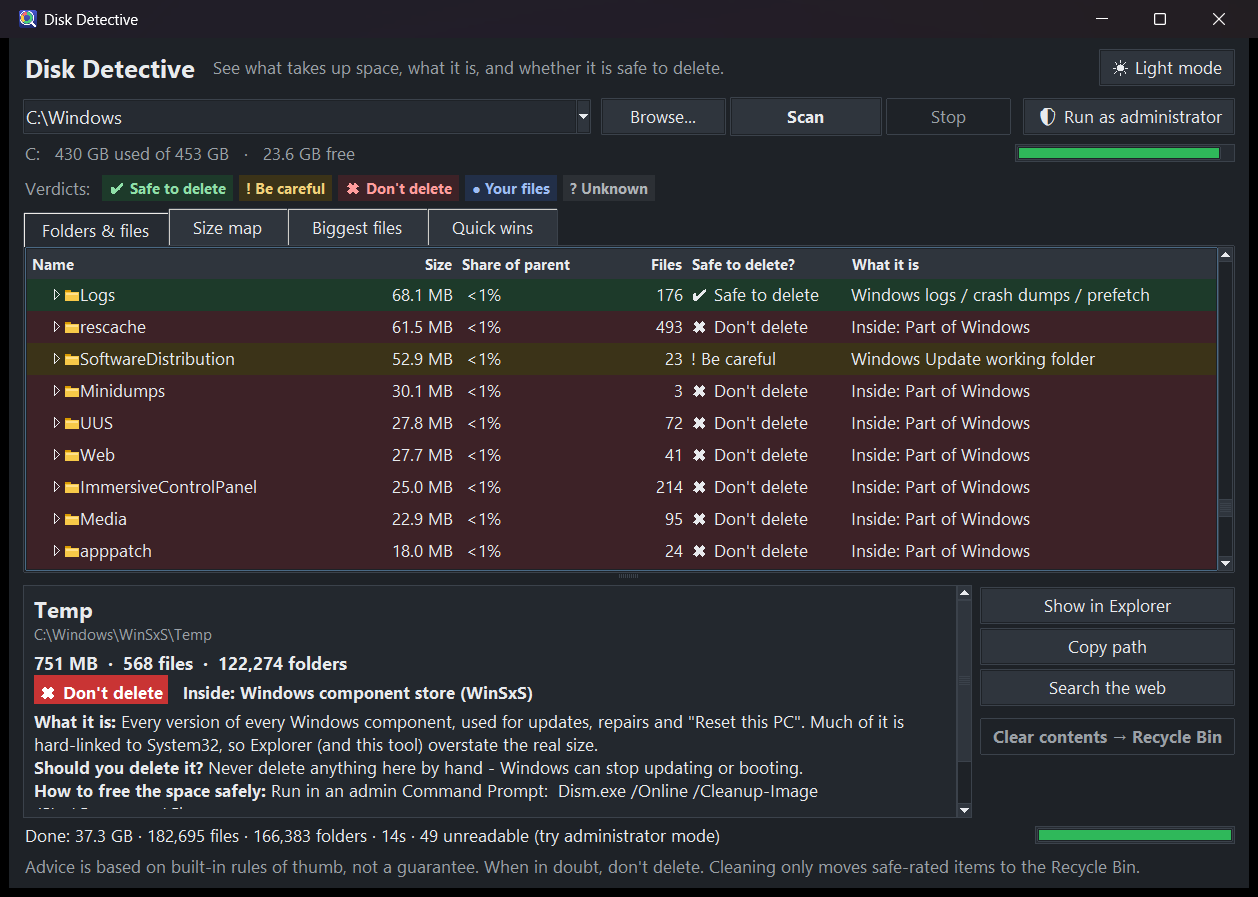
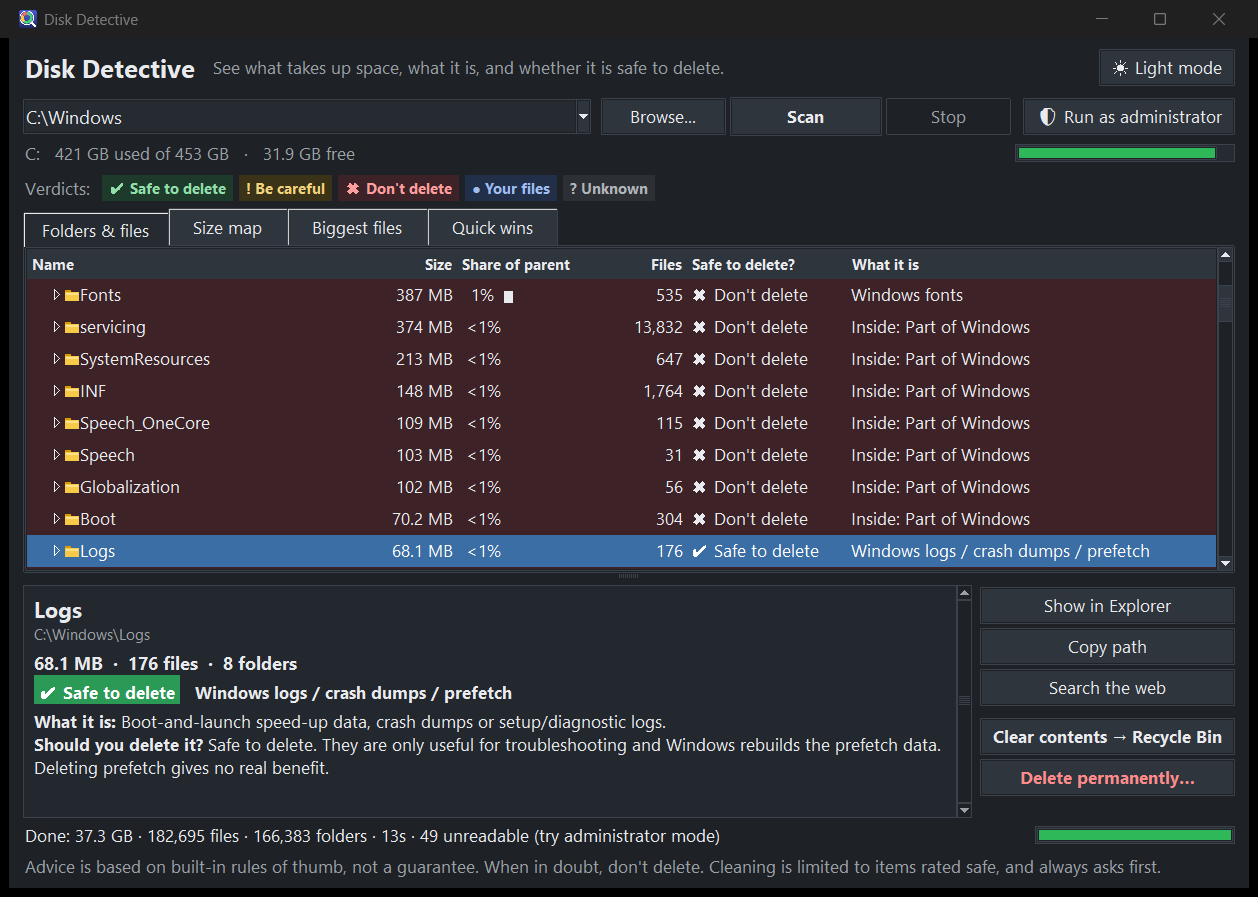
Add permanent Delete button next to the Recycle Bin one
- cleaner.delete_permanently: removes files / folder contents for good, never follows
  junctions or symlinks (removes the link only), clears read-only flags, reports files in use
- both actions share every safeguard: safe-rated items only, verdict re-checked at click time,
  credential guard, confirmation dialog that defaults to No (stronger wording for permanent)
- red Delete permanently button in the detail panel and in Quick wins (multi-select)
- tests: junction safety, read-only and in-use files; README and screenshot updated

diff --git a/diskdetective.py b/diskdetective.py
@@ -1,6 +1,7 @@
 """Disk Detective - see what is using your disk space, what it is, and whether it is safe to delete.
 
-It only ever *moves* things to the Recycle Bin, and only items rated "safe to delete", and only when you confirm.
+It only ever removes items rated "safe to delete" (to the Recycle Bin, or permanently), never anything holding saved
+logins/cookies/keys, and only after you confirm.
 """
 import ctypes
 import json
@@ -220,6 +221,8 @@ class DiskDetective:
         st.configure('Treeview.Heading', font=('Segoe UI', 9, 'bold'))
         st.configure('Accent.TButton', font=('Segoe UI', 10, 'bold'), padding=(18, 5))
         st.configure('Clean.TButton', font=('Segoe UI', 10, 'bold'))
+        st.configure('Danger.TButton', font=('Segoe UI', 10, 'bold'), foreground='#ff8a8a' if name == 'dark' else '#b3261e')
+        st.map('Danger.TButton', foreground=[('disabled', t['muted'])])
         st.configure('Title.TLabel', font=('Segoe UI', 15, 'bold'))
         st.configure('Muted.TLabel', foreground=t['muted'])
         st.configure('Bold.TLabel', font=('Segoe UI', 10, 'bold'))
@@ -319,7 +322,7 @@ class DiskDetective:
 
         # footer widgets are packed first so the expanding pane below can never squeeze them out
         ttk.Label(root, text='Advice is based on built-in rules of thumb, not a guarantee. When in doubt, don\'t delete. '
-                  'Cleaning only moves safe-rated items to the Recycle Bin.', style='Muted.TLabel',
+                  'Cleaning is limited to items rated safe, and always asks first.', style='Muted.TLabel',
                   padding=(14, 0, 14, 8)).pack(side='bottom', fill='x')
         bar = ttk.Frame(root, padding=(14, 4, 14, 4))
         bar.pack(side='bottom', fill='x')
@@ -373,7 +376,10 @@ class DiskDetective:
         self.btn_wins_clean = ttk.Button(wtop, text='Clean selected \u2192 Recycle Bin', style='Clean.TButton',
                                          command=self.clean_selected, state='disabled')
         self.btn_wins_clean.pack(side='right')
-        ttk.Button(wtop, text='Select all', command=self._wins_select_all).pack(side='right', padx=6)
+        self.btn_wins_delete = ttk.Button(wtop, text='Delete permanently…', style='Danger.TButton',
+                                          command=self.delete_selected, state='disabled')
+        self.btn_wins_delete.pack(side='right', padx=6)
+        ttk.Button(wtop, text='Select all', command=self._wins_select_all).pack(side='right')
         self.wins = self._make_tree(tab3, 'headings', [
             ('name', 'Folder', 420, 'w'), ('size', 'Size', 90, 'e'), ('what', 'What it is', 220, 'w'),
             ('how', 'How to clean it', 380, 'w')], stretch='how', multi=True)
@@ -386,9 +392,12 @@ class DiskDetective:
         self.btn_copy = ttk.Button(btns, text='Copy path', command=lambda: self.copy_path(self.current), state='disabled')
         self.btn_web = ttk.Button(btns, text='Search the web', command=lambda: self.search_web(self.current), state='disabled')
         self.btn_clean = ttk.Button(btns, text='Move to Recycle Bin', style='Clean.TButton', command=self.clean_selected, state='disabled')
+        self.btn_delete = ttk.Button(btns, text='Delete permanently…', style='Danger.TButton', command=self.delete_selected,
+                                     state='disabled')
         for b in (self.btn_open, self.btn_copy, self.btn_web):
             b.pack(fill='x', pady=2)
         self.btn_clean.pack(fill='x', pady=(10, 2))
+        self.btn_delete.pack(fill='x', pady=2)
         dscroll = ttk.Scrollbar(dframe, orient='vertical')
         dscroll.pack(side='right', fill='y')
         self.detail = tk.Text(dframe, height=10, wrap='word', relief='flat', borderwidth=0, padx=10, pady=8,
@@ -716,7 +725,10 @@ class DiskDetective:
         metas = self.selection
         can = bool(metas) and all(self._cleanable(m) for m in metas)
         self.btn_clean.config(state='normal' if can else 'disabled')
-        self.btn_wins_clean.config(state='normal' if can and self.wins.selection() else 'disabled')
+        self.btn_delete.config(state='normal' if can else 'disabled')
+        in_wins = 'normal' if can and self.wins.selection() else 'disabled'
+        self.btn_wins_clean.config(state=in_wins)
+        self.btn_wins_delete.config(state=in_wins)
         if len(metas) > 1:
             text = f'Clean {len(metas)} items \u2192 Recycle Bin'
         elif metas and not metas[0].is_dir:
@@ -748,7 +760,8 @@ class DiskDetective:
         levels = {m.info.level for m in metas}
         if levels == {K.SAFE}:
             t.insert('end', 'All of them are rated safe to delete. ', 'gap')
-            t.insert('end', 'Press "Clean" to move their contents to the Recycle Bin (you will be asked to confirm first).')
+            t.insert('end', 'Move their contents to the Recycle Bin (recoverable), or delete them permanently - '
+                     'you will be asked to confirm first.')
         else:
             t.insert('end', 'The selection mixes different kinds of items, so cleaning is disabled. Select only items rated "Safe to delete".', 'gap')
         t.configure(state='disabled')
@@ -825,7 +838,11 @@ class DiskDetective:
             webbrowser.open('https://www.google.com/search?q=' + urllib.parse.quote_plus(query))
 
     # --------------------------------------------------------------- cleaning
-    def clean_selected(self):
+    def delete_selected(self):
+        self.clean_selected(permanent=True)
+
+    def clean_selected(self, permanent=False):
+        """Move the selected safe-rated items to the Recycle Bin - or, with permanent=True, delete them for good."""
         if self.busy or not self.scan_done:
             return
         # work from the tab the user is looking at, so "selection" means what they can see highlighted
@@ -860,29 +877,40 @@ class DiskDetective:
         for m in checked:
             targets += cleaner.targets_for(m.path, m.is_dir)
         if not targets:
-            messagebox.showinfo(APP, 'Nothing to move - the selected folders are already empty.')
+            messagebox.showinfo(APP, 'Nothing to remove - the selected folders are already empty.')
             return
         total = sum(m.size for m in checked)
         lines = [f'  \u2022 {shorten(m.path, 62)}  ({fmt_size(m.size)})' for m in sorted(checked, key=lambda m: -m.size)[:8]]
         if len(checked) > 8:
             lines.append(f'  \u2026 and {len(checked) - 8:,} more')
-        msg = (f'Move to the Recycle Bin?\n\n' + '\n'.join(lines) + f'\n\nTotal: {fmt_size(total)} in {len(checked):,} item(s).\n\n'
-               'For folders, only what is inside is moved; the folder itself stays. '
-               'Everything can be restored from the Recycle Bin, and the disk space is only released when you empty it.')
+        summary = '\n'.join(lines) + f'\n\nTotal: {fmt_size(total)} in {len(checked):,} item(s).\n\n'
+        if permanent:
+            msg = ('PERMANENTLY delete?\n\n' + summary +
+                   'This CANNOT be undone: nothing goes to the Recycle Bin. For folders, everything inside is deleted '
+                   'and the folder itself stays. The space is freed immediately.\n\nDelete them for good?')
+        else:
+            msg = ('Move to the Recycle Bin?\n\n' + summary +
+                   'For folders, only what is inside is moved; the folder itself stays. '
+                   'Everything can be restored from the Recycle Bin, and the disk space is only released when you empty it.')
         if not messagebox.askyesno(APP, msg, icon='warning', default='no'):
             return
+        verb = 'Deleting' if permanent else 'Moving to the Recycle Bin'
         self.busy = True
         self._set_buttons()
         self.scan_btn.config(state='disabled')
         before = self.scanner.root_node.size
-        self.status.set('Moving to the Recycle Bin\u2026')
+        self.status.set(verb + '\u2026')
         self.progress.config(mode='indeterminate')
         self.progress.start(15)
-        job = {'done': False, 'left': 0, 'aborted': False, 'error': None, 'stage': 'Moving to the Recycle Bin\u2026'}
+        job = {'done': False, 'left': 0, 'aborted': False, 'error': None, 'stage': verb + '\u2026', 'permanent': permanent,
+               'failed': []}
 
         def work():                          # runs off the UI thread: never touch Tk widgets or variables in here
             try:
-                _ok, job['aborted'] = cleaner.recycle_in_chunks(targets)
+                if permanent:
+                    _removed, job['failed'] = cleaner.delete_permanently(targets)
+                else:
+                    _ok, job['aborted'] = cleaner.recycle_in_chunks(targets)
                 job['left'] = sum(1 for t in targets if os.path.lexists(t))
                 job['stage'] = 'Updating the numbers\u2026'
                 touched = {m.path if m.is_dir else os.path.dirname(m.path) for m in checked}
@@ -913,9 +941,20 @@ class DiskDetective:
         moved = n_targets - job['left']
         note = ''
         if job['left']:
-            note = f' {job["left"]:,} item(s) could not be moved (in use or access denied - close the program, or try administrator mode).'
+            note = (f' {job["left"]:,} item(s) could not be {"deleted" if job["permanent"] else "moved"} '
+                    '(in use or access denied - close the program, or try administrator mode).')
+            reasons = sorted({(getattr(e, 'strerror', None) or str(e)) for _p, e in job['failed']})[:2]
+            if reasons:
+                note += ' Windows said: ' + '; '.join(reasons) + '.'
         if job['aborted']:
             note += ' The operation was cancelled.'
+        if job['permanent']:
+            self.status.set(f'Deleted {moved:,} item(s) \u00b7 {fmt_size(freed)} freed.' + note)
+            if job['error'] is not None:
+                messagebox.showerror(APP, f'Something went wrong while deleting:\n\n{job["error"]}')
+            elif job['left']:
+                messagebox.showwarning(APP, f'Deleted {moved:,} item(s) ({fmt_size(freed)} freed).\n\n{note.strip()}')
+            return
         self.status.set(f'Moved {moved:,} item(s) to the Recycle Bin \u00b7 {fmt_size(freed)} less here.' + note)
         if job['error'] is not None:
             messagebox.showerror(APP, f'Something went wrong while cleaning:\n\n{job["error"]}')

diff --git a/test_knowledge.py b/test_knowledge.py
@@ -196,6 +196,47 @@ for name in ('data_0', 'index', 'f_000001', 'main.js', 'package.json', 'cookies.
     if cleaner.is_sensitive_name(name):
         fails.append(f'is_sensitive_name wrongly flagged {name}')
 
+# permanent delete: removes everything inside, but never follows a junction out of the folder
+import stat
+import subprocess
+with tempfile.TemporaryDirectory() as tmp:
+    victim = os.path.join(tmp, 'victim')                  # the folder whose *contents* get deleted
+    outside = os.path.join(tmp, 'outside')                # must survive: a junction inside victim points here
+    for rel in ('victim/a.bin', 'victim/sub/b.bin', 'victim/sub/deeper/c.bin', 'outside/precious.txt'):
+        os.makedirs(os.path.dirname(os.path.join(tmp, rel)), exist_ok=True)
+        with open(os.path.join(tmp, rel), 'wb') as fh:
+            fh.write(b'x' * 100)
+    readonly = os.path.join(victim, 'readonly.bin')
+    with open(readonly, 'wb') as fh:
+        fh.write(b'x')
+    os.chmod(readonly, stat.S_IREAD)
+    junction = os.path.join(victim, 'link_to_outside')
+    made = subprocess.run(['cmd', '/c', 'mklink', '/J', junction, outside], capture_output=True).returncode == 0
+    held = os.path.join(victim, 'in_use.bin')
+    with open(held, 'wb') as fh:
+        fh.write(b'x')
+    keep_open = open(held, 'rb')                          # an open handle blocks deletion, like a running program would
+    targets = cleaner.targets_for(victim, True)
+    removed, failed = cleaner.delete_permanently(targets)
+    keep_open.close()
+    left = sorted(os.listdir(victim))
+    if left != ['in_use.bin']:
+        fails.append(f'delete_permanently left the wrong things behind: {left}')
+    if [os.path.basename(p) for p, _ in failed] != ['in_use.bin']:
+        fails.append(f'the in-use file should be reported as failed, got {[os.path.basename(p) for p, _ in failed]}')
+    if not os.path.isfile(os.path.join(outside, 'precious.txt')):
+        fails.append('DANGER: delete_permanently followed a junction and deleted files outside the folder')
+    if not made:
+        fails.append('could not create a test junction (mklink /J failed), junction safety was not tested')
+    if removed < 7:
+        fails.append(f'delete_permanently reported too few removed items: {removed}')
+    removed2, failed2 = cleaner.delete_permanently(cleaner.targets_for(victim, True))      # handle closed now
+    if failed2 or os.listdir(victim):
+        fails.append(f'second pass should remove the last file: {failed2} {os.listdir(victim)}')
+    gone, missing = cleaner.delete_permanently([os.path.join(tmp, 'does-not-exist')])
+    if gone != 0 or len(missing) != 1:
+        fails.append('a missing path should be reported, not crash')
+
 if fmt_size(0) != '0 B' or fmt_size(1536) != '1.5 KB' or fmt_size(5 * 1024 ** 3) != '5.0 GB':
     fails.append('fmt_size wrong')
 

diff --git a/cleaner.py b/cleaner.py
@@ -1,7 +1,8 @@
-"""Move things to the Recycle Bin. Nothing here deletes permanently by itself: every item goes through the
-Windows shell with "undo" enabled, and Windows asks first if an item is too big for the Recycle Bin."""
+"""Remove things: either to the Recycle Bin (recoverable, via the Windows shell with "undo" enabled) or permanently.
+Both are only ever called by the GUI for items rated safe, after a confirmation."""
 import ctypes
 import os
+import stat
 
 from scanner import is_link, long_path
 
@@ -45,6 +46,57 @@ def recycle_in_chunks(paths, chunk=800):
         if part_aborted:
             return False, True
     return ok, aborted
+
+
+def _unlink(lp):
+    try:
+        os.unlink(lp)
+    except PermissionError:                  # read-only file: clear the flag and try once more
+        os.chmod(lp, stat.S_IWRITE)
+        os.unlink(lp)
+
+
+def _remove(path, failed):
+    """Delete one file, link or folder tree. Returns how many items were removed; failures go to `failed`."""
+    lp = long_path(path)
+    try:
+        st = os.lstat(lp)
+    except OSError as exc:
+        failed.append((path, exc))
+        return 0
+    removed = 0
+    try:
+        if stat.S_ISDIR(st.st_mode) and not is_link(st):
+            try:
+                names = os.listdir(lp)
+            except OSError as exc:
+                failed.append((path, exc))
+                return 0
+            for name in names:
+                removed += _remove(os.path.join(path, name), failed)
+            os.rmdir(lp)
+            return removed + 1
+        if stat.S_ISDIR(st.st_mode) or stat.S_ISLNK(st.st_mode):
+            # a junction or symlink: remove the LINK only - never follow it into whatever it points at
+            try:
+                os.rmdir(lp)
+            except OSError:
+                _unlink(lp)
+        else:
+            _unlink(lp)
+        return removed + 1
+    except OSError as exc:                  # in use, access denied, ...
+        failed.append((path, exc))
+        return removed
+
+
+def delete_permanently(paths):
+    """Permanently delete `paths` (files, or folders with everything in them). NOT recoverable and it skips the
+    Recycle Bin. Links are removed, never followed. Returns (items_removed, [(path, error), ...])."""
+    failed, removed = [], 0
+    for path in paths:
+        removed += _remove(path, failed)
+    return removed, failed
 
 
 def targets_for(path, is_dir):

diff --git a/README.md b/README.md
@@ -1,7 +1,7 @@
 # Disk Detective
 
 A Windows program that shows **how big** every file and folder is, **what it is**, and whether it is
-**safe to delete** - and can clean up the safe stuff for you, through the Recycle Bin.
+**safe to delete** - and can clean up the safe stuff for you, through the Recycle Bin or permanently.
 
 ![Disk Detective](docs/screenshot-dark.png)
 
@@ -19,7 +19,7 @@ knowledge base of ~70 Windows folder rules and ~25 file-type groups (caches, tem
 * **Size map** - a treemap of the selected folder, coloured by verdict. Click to inspect, double-click to zoom in.
 * **Biggest files** - the 500 largest files on the scanned drive/folder.
 * **Quick wins** - every folder rated safe to delete, with the total space you could free (nested folders are
-  counted once). Select some or all and send them to the Recycle Bin in one go.
+  counted once). Select some or all and either send them to the Recycle Bin or delete them permanently, in one go.
 * **Light / dark theme** (follows Windows by default).
 * Fast: a multi-threaded scanner reads a full `C:\` (about 1 million files) in roughly 30-40 s using about 120 MB.
 
@@ -33,14 +33,17 @@ knowledge base of ~70 Windows folder rules and ~25 file-type groups (caches, tem
 
 ## Safety
 
-* Cleaning **only moves things to the Recycle Bin** (restorable), **only items rated safe**, **only after you confirm**.
-  For a folder, only its *contents* move - the folder stays, so programs that expect their Temp/Cache folder keep working.
-  Disk space is released when you empty the Recycle Bin.
+* Two ways to clean, both **only for items rated safe** and **only after you confirm** (the dialog defaults to "No"):
+  **Move to Recycle Bin** (restorable; the disk space is released when you empty the bin) and
+  **Delete permanently** (red button, *cannot be undone*, frees the space immediately).
+  For a folder, only its *contents* are removed - the folder stays, so programs that expect their Temp/Cache folder keep working.
+* Permanent delete never follows junctions or symbolic links out of the folder (the link is removed, its target is
+  not), clears read-only flags, and reports files that are in use instead of failing silently.
 * **Credential guard:** a folder that contains saved logins, cookies, bookmarks or keys (`Login Data`, `Cookies`,
   `logins.json`, `key4.db`, `places.sqlite`, SSH keys, KeePass files...) is never offered and is refused even if
   its name looks like a cache - embedded browsers inside game launchers keep their sessions in cache-like folders.
   Your real Chrome/Firefox/Edge profiles are rated "be careful" and are never touched.
-* Nothing is ever deleted permanently by the program itself.
+* Items rated "be careful", "don't delete", "your files" or "unknown" cannot be removed from inside the program at all.
 * The verdicts are rules of thumb, not a guarantee. When in doubt, don't delete.
 
 ## Download / run
@@ -70,11 +73,11 @@ The exe is unsigned, so Windows SmartScreen may warn the first time ("More info"
 | `diskdetective.py` | The window (Tkinter): tree, size map, tabs, cleaning flow, themes |
 | `scanner.py` | Multi-threaded, read-only folder-size scanner; re-measures part of a scan after a cleanup |
 | `knowledge.py` | The rules: what each folder/file type is and whether it is safe to delete. Add your own with `_r(...)` |
-| `cleaner.py` | Recycle Bin move (Windows shell, "undo" enabled) and the credential guard |
+| `cleaner.py` | Recycle Bin move (Windows shell, "undo" enabled), link-safe permanent delete, and the credential guard |
 | `treemap.py` | Squarified treemap layout |
 | `cli.py` | Text report without a window: `python cli.py C:\ --depth 2` |
 | `make_icon.py` | Draws the app icon with the standard library only |
-| `test_knowledge.py` | Self-checks: `python test_knowledge.py` (includes a real Recycle Bin round trip on temp files) |
+| `test_knowledge.py` | Self-checks: `python test_knowledge.py` (includes a real Recycle Bin round trip and junction-safety checks on temp files) |
 
 Notes: sizes are logical file sizes; online-only OneDrive files count as 0 bytes; junctions and symlinks are not
 followed (nothing is counted twice); `WinSxS` is hard-linked to System32, so its apparent size is larger than the
